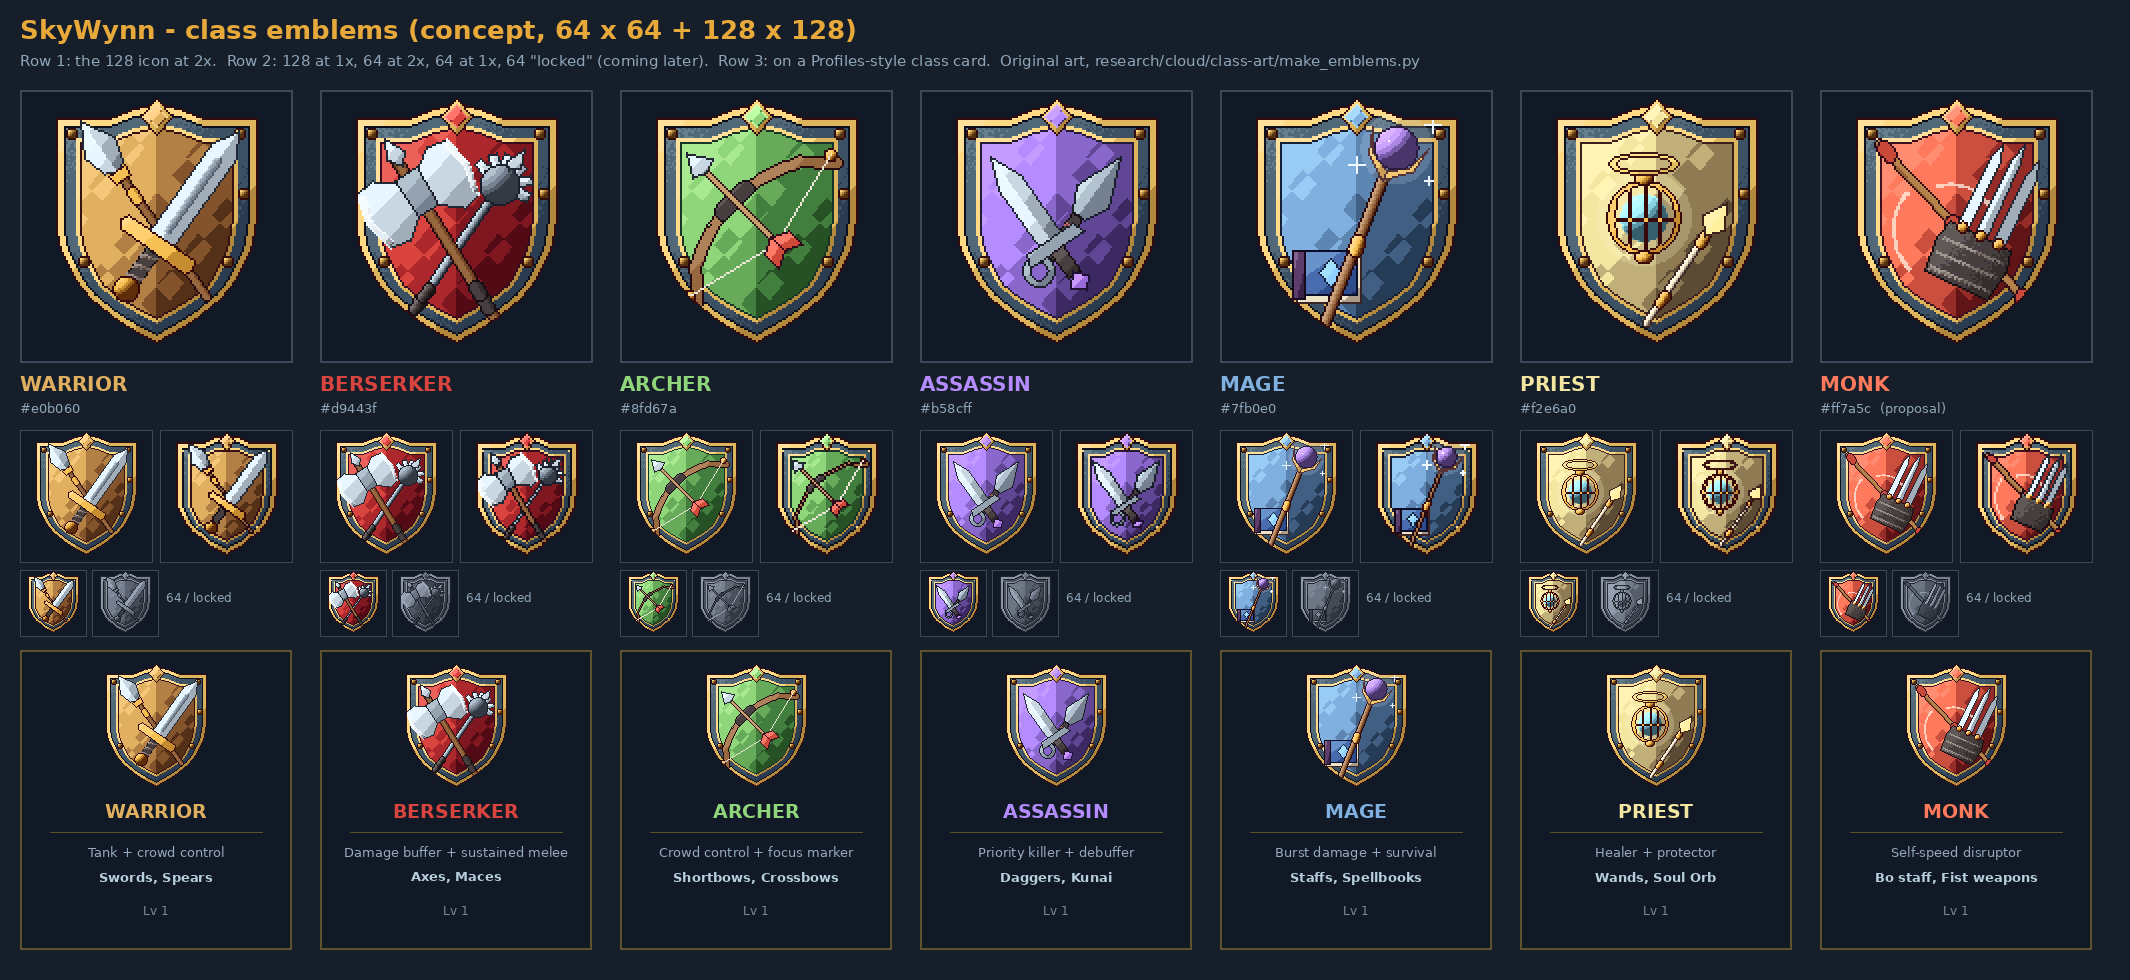
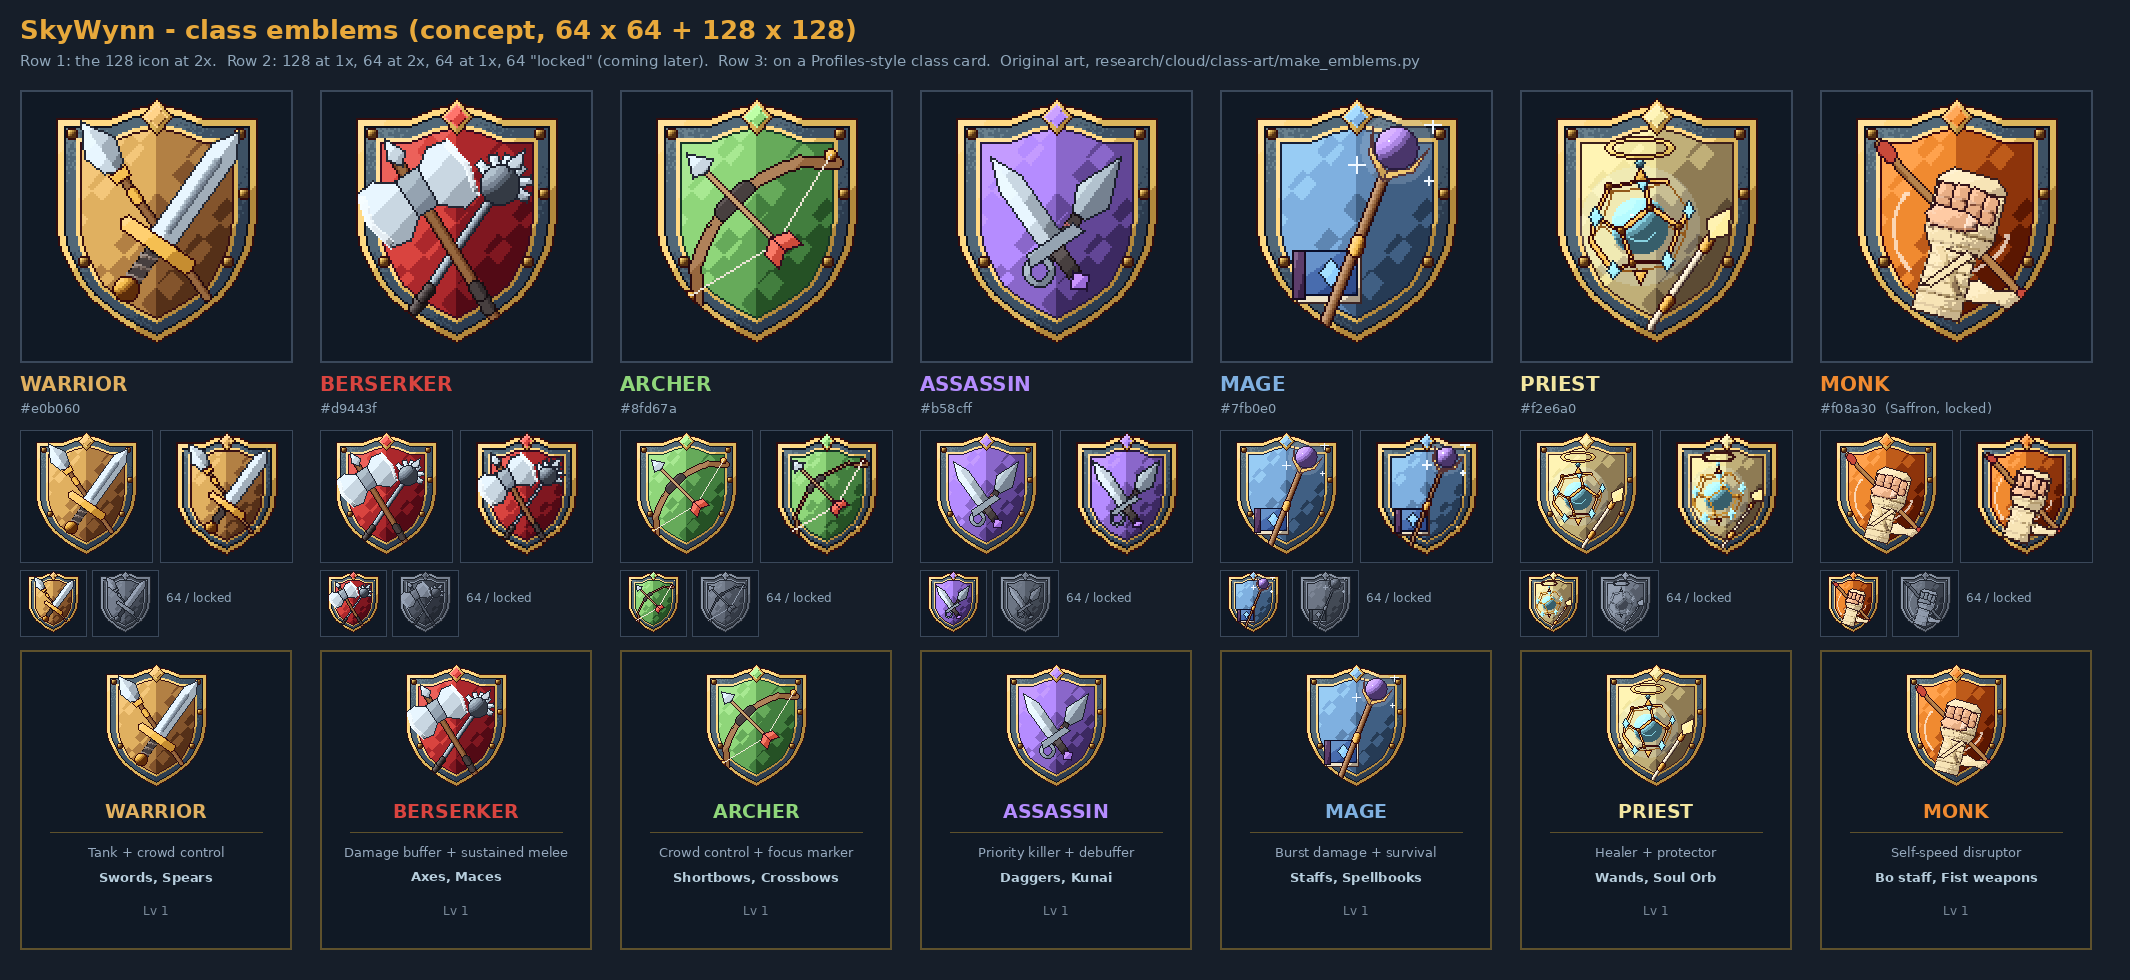
cloud: Monk emblem v2
Claude-Session: https://claude.ai/code/session_01Y979dGRrGSCQBxjp4ttbgD

diff --git a/research/cloud/class-art/make_emblems.py b/research/cloud/class-art/make_emblems.py
@@ -253,7 +253,7 @@ def font(sz, bold=True):
 OUT = os.path.dirname(os.path.abspath(__file__))
 PI = math.pi
 
-# class colours: ClassDefs.COLORS (SkyyProfiles build 0.1.2) - Monk has none yet (proposal: Shaman's old #ff7a5c slot)
+# class colours: ClassDefs.COLORS (SkyyProfiles build 0.1.2); Monk = Saffron #f08a30 (LOCKED by Skyy 2026-10-06, docs/answered/gear.md)
 CLASSES = [
     ('Warrior', '#e0b060', 'Tank + crowd control', 'Swords, Spears'),
     ('Berserker', '#d9443f', 'Damage buffer + sustained melee', 'Axes, Maces'),
@@ -261,7 +261,7 @@ CLASSES = [
     ('Assassin', '#b58cff', 'Priority killer + debuffer', 'Daggers, Kunai'),
     ('Mage', '#7fb0e0', 'Burst damage + survival', 'Staffs, Spellbooks'),
     ('Priest', '#f2e6a0', 'Healer + protector', 'Wands, Soul Orb'),
-    ('Monk', '#ff7a5c', 'Self-speed disruptor', 'Bo staff, Fist weapons'),
+    ('Monk', '#f08a30', 'Self-speed disruptor', 'Bo staff, Fist weapons'),
 ]
 
 TRIM = ramp('#c9a24a', 6, light=0.45)      # gold ornament (vanilla frame ornaments read gold; UNVERIFIED exact)
@@ -531,14 +531,147 @@ def swirl(cv, cx, cy, k, col):
                 cv.put(p[0], p[1], mix(cv.get(*p), col, 0.75))
 
 
+# ---- v2 (2026-10-07): Monk wrapped fist (cloth hand wraps) + Priest soul cage v2 (dodecahedron lattice)
+LINEN = ramp('#e2cfa2', 6, light=0.45)      # linen hand wraps (weapon-art hand-wraps-v2 "Linen" tier)
+SKIN = ramp('#d49a72', 6, light=0.45)
+CYANS = ramp('#9ff0ff', 6, light=0.6)
+
+
+def fist(cv, cx, cy, ang, k, sc=0.8):
+    """raised fist seen from the front (palm side), knuckles up, wrapped in linen; loose wrap tail at the wrist"""
+    def S(pts):
+        return [(x * sc, y * sc) for x, y in pts]
+    BAND = ramp('#9c8458', 4)
+    # loose wrap tail fluttering off the wrist (behind the arm)
+    part(cv, S([(5, 15), (10, 13), (15, 15), (21, 14), (27, 17), (22, 20), (16, 19), (10, 21), (6, 21)]), cx, cy, ang, k, LINEN, noise=0.04, seed=11)
+    # forearm + wrist, fully wrapped
+    part(cv, S([(-7, 4), (7, 4), (8, 28), (-8, 28)]), cx, cy, ang, k, LINEN, noise=0.04, seed=12)
+    # hand body (palm + back of hand), wrapped over the knuckles
+    hand = S([(-11, -15), (-7, -18), (7, -18), (11, -15), (11, 2), (8, 7), (-8, 7), (-11, 2)])
+    hm = part(cv, hand, cx, cy, ang, k, LINEN, noise=0.04, seed=13)
+    if k > 1:
+        for yy in (1, 5, 9, 13, 17, 21, 25):
+            w0 = 10.5 if yy < 4 else 7.5
+            part(cv, S([(-w0, yy), (w0, yy - 0.8), (w0, yy - 0.1), (-w0, yy + 0.7)]), cx, cy, ang, k, BAND, outline=False)
+        # crossed straps over the wrist
+        part(cv, S([(-7, 6), (-4, 6), (7, 20), (4, 20)]), cx, cy, ang, k, ramp('#cdb684', 5), outline=False, level=-0.08)
+        part(cv, S([(4, 6), (7, 6), (-4, 20), (-7, 20)]), cx, cy, ang, k, LINEN, outline=True, level=0.04)
+        scatter(cv, hm, LINEN['f'][1], 0.05, 21)
+    else:
+        for yy in (2, 9, 16, 23):
+            part(cv, S([(-9, yy), (9, yy - 0.8), (9, yy), (-9, yy + 0.8)]), cx, cy, ang, k, BAND, outline=False)
+    # wrap band over the knuckles
+    part(cv, S([(-11, -15), (-7, -18.5), (7, -18.5), (11, -15), (11, -13), (-11, -13)]), cx, cy, ang, k, LINEN, level=0.06)
+    # four curled fingers (skin): middle segments in a row across the top front
+    for i, fx in enumerate((-7.6, -2.6, 2.4, 7.2)):
+        top = (-13.5, -14.2, -14, -13)[i]
+        w = 2.5 if i < 3 else 2.2
+        part(cv, S([(fx - w, top + 1.2), (fx - w + 1, top), (fx + w - 1, top), (fx + w, top + 1.2), (fx + w, -4.5), (fx + w - 1, -3.5),
+                    (fx - w + 1, -3.5), (fx - w, -4.5)]), cx, cy, ang, k, SKIN, noise=0.03, seed=30 + i)
+        if k > 1:
+            part(cv, S([(fx - w + 0.8, top + 4.6), (fx + w - 0.8, top + 4.6), (fx + w - 0.8, top + 5.4), (fx - w + 0.8, top + 5.4)]),
+                 cx, cy, ang, k, ramp('#a06a4a', 4), outline=False)
+    # thumb folded across the fingers' lower ends (outlined, a shade lighter)
+    th = S([(-12, -2), (-9.5, -6), (0, -6.2), (4.6, -4.6), (5, -1.2), (2, 0.6), (-9, 0.8)])
+    part(cv, th, cx, cy, ang, k, SKIN, noise=0.03, seed=40, level=0.08)
+    if k > 1:
+        part(cv, S([(1.2, -5.2), (4, -4.1), (4.2, -1.6), (1.4, -1.2)]), cx, cy, ang, k, ramp('#f2cdb0', 4), outline=False)   # nail
+        part(cv, S([(-9, -0.4), (0, -0.3), (0, 0.4), (-9, 0.4)]), cx, cy, ang, k, ramp('#a06a4a', 4), outline=False)
+
+
+def _dodeca():
+    phi = (1 + 5 ** 0.5) / 2
+    v = [(x, y, z) for x in (-1, 1) for y in (-1, 1) for z in (-1, 1)]
+    for a in (-1, 1):
+        for b in (-1, 1):
+            v += [(0, a / phi, b * phi), (a / phi, b * phi, 0), (a * phi, 0, b / phi)]
+    e = [(i, j) for i in range(20) for j in range(i + 1, 20) if abs(math.dist(v[i], v[j]) - 2 / phi) < 1e-6]
+    n = math.sqrt(1 + phi * phi)
+    fy, fz = 1 / n, phi / n
+    a = math.atan2(fz, fy) - PI                               # 5-fold axis straight up (the spin axis, as soul-cage-v2)
+    ca, sa = math.cos(-a), math.sin(-a)
+    v = [(x, y * ca - z * sa, y * sa + z * ca) for x, y, z in v]
+    th, tl = 0.25, 0.30                                       # same view angles as weapon-art/soul-cage-v2.png
+    out = []
+    for x, y, z in v:
+        x, z = x * math.cos(th) - z * math.sin(th), x * math.sin(th) + z * math.cos(th)
+        y, z = y * math.cos(tl) - z * math.sin(tl), y * math.sin(tl) + z * math.cos(tl)
+        out.append((x, y, z))
+    return out, e
+
+
+def soul_cage(cv, cx, cy, k):
+    """Soul Cage v2: glowing soul inside a gold dodecahedron lattice, gems (tethers) on the front corners, axis finials"""
+    v, e = _dodeca()
+    R = 13.0 / 1.75
+    P = [((cx + x * R) * k, (cy + y * R) * k, z) for x, y, z in v]
+    gl = ell(cv, cx * k, cy * k, 15 * k, 15 * k)
+    for p in gl:
+        if cv.get(*p) is not None:
+            cv.put(p[0], p[1], mix(cv.get(*p), hx('#e8fbff'), 0.20))
+    bw = max(1, 0.9 * k)
+
+    def bar(i, j, w):
+        return thick(cv, [P[i][:2], P[j][:2]], w)
+    back = [(i, j) for i, j in e if P[i][2] + P[j][2] > 0]
+    front = [(i, j) for i, j in e if P[i][2] + P[j][2] <= 0]
+    for i, j in back:
+        for p in bar(i, j, bw):
+            cv.put(p[0], p[1], GOLDM['f'][1])
+    soul = ell(cv, cx * k, cy * k, 7.2 * k, 7.2 * k)
+    shade(cv, soul, CYANS, 'sphere', cx=(cx - 1) * k, cy=(cy - 1.5) * k, rx=7 * k, ry=7 * k, outline=False)
+    if k > 1:
+        sw = thick(cv, [((cx + 4 * math.cos(t)) * k, (cy + 4 * math.sin(t)) * k) for t in [0.4 + i * 0.25 for i in range(9)]], 1)
+        for p in sw:
+            if p in soul:
+                cv.put(p[0], p[1], CYANS['f'][2])
+        cv.put(int((cx - 2.5) * k), int((cy - 3) * k), (255, 255, 255))
+        cv.put(int((cx - 2) * k), int((cy - 3) * k), (255, 255, 255))
+    else:
+        cv.put(int(cx - 2), int(cy - 2), (255, 255, 255))
+    fw = max(1.5, 1.6 * k)
+    allf = set()
+    for i, j in front:
+        allf |= bar(i, j, fw)
+    for p in edge(allf):                                      # thin dark edge so the bars read over the bright soul
+        if p in soul or k > 1:
+            cv.put(p[0], p[1], GOLDM['o'])
+    for p in allf - edge(allf) if k > 1 else allf:
+        cv.put(p[0], p[1], GOLDM['f'][3] if k > 1 else GOLDM['f'][2])
+    if k > 1:
+        for i, j in front:                                    # highlight line on the upper side of each bar
+            hl = thick(cv, [(P[i][0], P[i][1] - 0.7 * k / 2), (P[j][0], P[j][1] - 0.7 * k / 2)], 1)
+            for p in hl & (allf - edge(allf)):
+                cv.put(p[0], p[1], GOLDM['f'][4])
+    # corner nodes: gold knobs, the lowest front corners carry cyan gems (tethers)
+    fr = sorted([i for i in range(20) if P[i][2] <= 0], key=lambda i: math.atan2(P[i][1] - cy * k, P[i][0] - cx * k))
+    gems = set(fr[::2])                                       # every other front corner carries a gem (a mid-tier cage)
+    for i in sorted(range(20), key=lambda i: -P[i][2]):
+        x, y = P[i][0], P[i][1]
+        if P[i][2] > 0:
+            continue
+        if i in gems:
+            g = poly(cv, [(x, y - 2.4 * k), (x + 1.7 * k, y), (x, y + 2.4 * k), (x - 1.7 * k, y)])
+            shade(cv, g, CYANS, 'grad', bevel=0.25, outline=k > 1)
+        else:
+            m = ell(cv, x, y, 1.2 * k, 1.2 * k)
+            shade(cv, m, GOLDM, 'sphere', cx=x - 0.5 * k, cy=y - 0.5 * k, rx=1.6 * k, ry=1.6 * k, outline=k > 1)
+    top = min(p[1] for p in P); bot = max(p[1] for p in P)
+    xs = cx * k
+    part(cv, [(-1.6, 0.2), (0, -3.4), (1.6, 0.2)], cx, top / k, 0, k, GOLDM)
+    part(cv, [(-1.6, -0.2), (0, 3.4), (1.6, -0.2)], cx, bot / k, 0, k, GOLDM)
+    kn = ell(cv, xs, top - 4.4 * k, 1.3 * k, 1.3 * k)
+    shade(cv, kn, CYANS, 'sphere', cx=xs - 0.4 * k, cy=top - 4.8 * k, rx=1.7 * k, ry=1.7 * k, outline=k > 1)
+
+
 SYMBOLS = {
     'Warrior': lambda cv, k, rp: (spear(cv, 32, 32, -0.62, k), sword(cv, 33, 36, 0.62, k)),
     'Berserker': lambda cv, k, rp: (mace(cv, 34, 35, 0.6, k), battleaxe(cv, 30, 36, -0.55, k)),
     'Archer': lambda cv, k, rp: bow(cv, 33, 32, -PI / 4 - PI / 2 + PI, k),
     'Assassin': lambda cv, k, rp: (kunai(cv, 33, 36, 0.62, k), dagger(cv, 31, 36, -0.62, k)),
     'Mage': lambda cv, k, rp: (book(cv, 24, 44, k, ramp('#3a5aa0', 6)), staff(cv, 34, 33, 0.38, k, ramp('#c49cff', 6, light=0.6))),
-    'Priest': lambda cv, k, rp: (wand(cv, 42, 38, 0.6, k), soul_orb(cv, 29, 30, k), halo(cv, 29, 16.5, k)),
-    'Monk': lambda cv, k, rp: (swirl(cv, 32, 32, k, hx('#fff0e0')), bo(cv, 32, 32, -0.75, k), claws(cv, 36, 39, 0.45, k)),
+    'Priest': lambda cv, k, rp: (wand(cv, 43, 39, 0.6, k), soul_cage(cv, 28, 32, k), halo(cv, 28, 12.5, k)),
+    'Monk': lambda cv, k, rp: (swirl(cv, 32, 32, k, hx('#fff0e0')), bo(cv, 32, 32, -0.75, k), fist(cv, 33, 33, 0.28, k)),
 }
 
 
@@ -641,7 +774,7 @@ def sheet(res):
         d.rectangle([x, y, x + 272, y + 272], fill=ROW, outline=SLOT_E, width=2)
         im.alpha_composite(i128.resize((256, 256), Image.NEAREST), (x + 8, y + 8))
         d.text((x, y + 282), name.upper(), fill=hx(col), font=font(20))
-        d.text((x, y + 310), col + ('  (proposal)' if name == 'Monk' else ''), fill=SUB, font=font(13, False))
+        d.text((x, y + 310), col + ('  (Saffron, locked)' if name == 'Monk' else ''), fill=SUB, font=font(13, False))
         y = 430
         d.rectangle([x, y, x + 132, y + 132], fill=ROW, outline=SLOT_E)
         im.alpha_composite(i128, (x + 2, y + 2))

diff --git a/research/cloud/class-art/README.md b/research/cloud/class-art/README.md
@@ -18,7 +18,11 @@ Inputs read: `CLOUD-RESUME.md` ("Class emblem icons"), `research/classes/README.
 | `icons/class-<name>-64-locked.png` | grey "coming later" version (Assassin and Monk are not selectable yet) |
 | `make_emblems.py` | The generator. Deterministic. Run `python3 research/cloud/class-art/make_emblems.py` |
 
-Folder size about 0.35 MB.
+Folder size about 0.75 MB.
+
+**v2 (2026-10-07):** Monk = wrapped fist instead of claws, field Saffron `#f08a30` (locked colour); Priest = the v2 soul cage
+(dodecahedron) instead of the round barred orb. Only the Monk + Priest icons changed - the other 5 classes are byte-identical (md5
+checked). Old sheet kept as `class-sheet-v1.png` for comparison.
 
 ## 2. The crest (same for every class)
 
@@ -39,11 +43,10 @@ Folder size about 0.35 MB.
 | Archer | `#8fd67a` | recurve shortbow with a nocked red-fletched arrow (Shortbows) |
 | Assassin | `#b58cff` | dagger crossed with a ring-pommel kunai (Daggers, Kunai) |
 | Mage | `#7fb0e0` | staff with a violet orb in a gold claw + sparkles, spellbook at its foot (Staffs, Spellbooks) |
-| Priest | `#f2e6a0` | the Soul Orb (gold cage, glowing soul) under a halo, with a wand (Wands, Soul Orb) |
-| Monk | `#ff7a5c` **(proposal)** | bo staff crossed with three-blade claws on a black leather wrap, wind swirls for speed (Bo staff, Fist weapons) |
+| Priest | `#f2e6a0` | the **Soul Cage v2** (gold dodecahedron lattice round a glowing cyan soul, cyan gems on every other front corner, axis finials - the `weapon-art/soul-cage-v2.png` look) under a halo, with a wand (Wands, Soul Orb) |
+| Monk | `#f08a30` Saffron **(LOCKED)** | a raised **wrapped fist** (linen hand wraps with bands + crossed straps, loose tail at the wrist) in front of the bo staff, wind swirls for speed (Bo staff, Fist weapons) |
 
-- Monk has no class colour yet. Proposal: `#ff7a5c`, the old Shaman slot colour (the Monk replaces the Shaman slot).
-- Claws follow Skyy's weapon lock (long straight Wolverine-style blades, black leather).
+- Monk colour = Saffron `#f08a30`, LOCKED by Skyy 2026-10-06 (`docs/answered/gear.md`). The build scripts still hold the old Shaman `#ff7a5c` (local session: change `ClassDefs.COLORS` / `SkillDefs` in the next SkyyProfiles / SkyySkills round).
 - Colours are the live `ClassDefs.COLORS` values (SkyyProfiles 0.1.2 build script) - if those change, edit `CLASSES` in the script.
 
 ## For the local session (UNVERIFIED)
@@ -57,7 +60,7 @@ Folder size about 0.35 MB.
 
 | # | Question | Default |
 |---|---|---|
-| 1 | Monk class colour | [`#ff7a5c`, the old Shaman slot colour] |
+| 1 | Priest emblem: the soul cage is drawn in gold with a cyan soul + gems (a "generic" cage, not one tier). Keep, or show a specific tier (e.g. Copper cage, green soul)? | [gold + cyan] |
 | 2 | Archer shows the bow only - add a crossbow (crossed bow + crossbow)? | [bow only, clearer at 64] |
 | 3 | Locked classes: grey emblem (as drawn) or a padlock on top? | [grey emblem] |
 | 4 | Shield crest for all classes, or a different frame per role (tank / damage / support)? | [same crest for all] |

diff --git a/CLOUD-RESUME.md b/CLOUD-RESUME.md
@@ -52,8 +52,6 @@ progression prices (SkyyBazaar 0.1.4 live), Skill curves + Cooking XP (SkyySkill
 <!-- 2026-10-06 local session: Skyy reviewed every concept sheet (answers word for word: docs/answered/gear.md + pets.md, 'cloud art review'
 lines). These ART REDOS come first. Vanilla density (Assets.zip, checked locally): armor model textures Mithril Chest 192x64, Head 160x64,
 Legs 128x64, Hands 64x64; item icons 64x64; Rabbit creature texture 160x160, model icon 128x128. Keep the old sheets as *-v1.png. -->
-- [ ] **Monk emblem v2** - wrapped fist (hand wraps) instead of claws, Saffron #f08a30 (LOCKED Monk colour); the soul-cage emblem uses the v2 soul
-      cage (`research/cloud/weapon-art/soul-cage-v2.png`). Output: `research/cloud/class-art/` updated.
 - [ ] **Stamina accessory icon v3** - redo the Stamina line (4 rarities) as a LIGHTNING BOLT like the vanilla Stamina symbol (Skyy 2026-10-06,
       docs/answered/gear.md); rest of `research/cloud/accessory-art/` v2 approved. Output: the v2 sheet + icons updated.
 - [ ] **Mining armor v3 (half plate)** - Skyy sent references (described in docs/answered/gear.md 2026-10-06 "MINING ARMOR references"; the
@@ -77,3 +75,4 @@ Legs 128x64, Hands 64x64; item icons 64x64; Rabbit creature texture 160x160, mod
 ## Done (delete after logging - see the rules above)
 - [x] Fishing junk = vanilla items - 2026-10-06 - `research/cloud/SkyyFishing-Spec-Draft.md` section 7
 - [x] Enchanted icons v2 (vanilla resources) - 2026-10-06 - `research/cloud/enchanted-art/`
+- [x] Monk emblem v2 - 2026-10-06 - `research/cloud/class-art/`

diff --git a/research/cloud/LOG.md b/research/cloud/LOG.md
@@ -114,3 +114,4 @@ section 6 when it reviews the results.
 - 2026-10-06: Concept art index page -> research/cloud/ART-INDEX.md (every art folder (13) + town map + fishing UI + Monk colours: newest sheet as an image link, older versions, scripts, status from Skyy's locks (approved / v2 waiting / not reviewed), what changed, open questions; review order for Skyy at the top)
 - 2026-10-06: Fishing junk = vanilla items -> research/cloud/SkyyFishing-Spec-Draft.md s7 + Fish-Species-Catalog.md s7 + fish-art/README note (junk = vanilla Fishing Trap items, 12-row per-zone weights summing to 100; Lost Property wrappers kept with vanilla contents (Water Essence, Ore_Gold, Deco_Treasure, Fishbone Spear); 7 invented junk items retired; weights UNVERIFIED vs Drops_Fishing_Trap_Crude.json)
 - 2026-10-06: Enchanted icons v2 (vanilla resources) -> research/cloud/enchanted-art/ (29 icons = shiny copies of vanilla items per research/Gathering-Progression-Spec.md s4: Enchanted Cobblestone + Rubble, 6 ingots (Mithril staged), 5 key log blocks, 7 key crops, plus 9 approved later items; ore chunks / sand / made-up woods dropped; bar + bark looks UNVERIFIED; Q1 key logs vs every log)
+- 2026-10-06: Monk emblem v2 -> research/cloud/class-art/ (Monk = linen-wrapped raised fist + bo staff on Saffron #f08a30 (locked, docs/answered/gear.md l.87); Priest emblem uses a dodecahedron soul cage matching weapon-art soul-cage-v2; other 5 classes byte-identical; build scripts still hold the old #ff7a5c (local))
